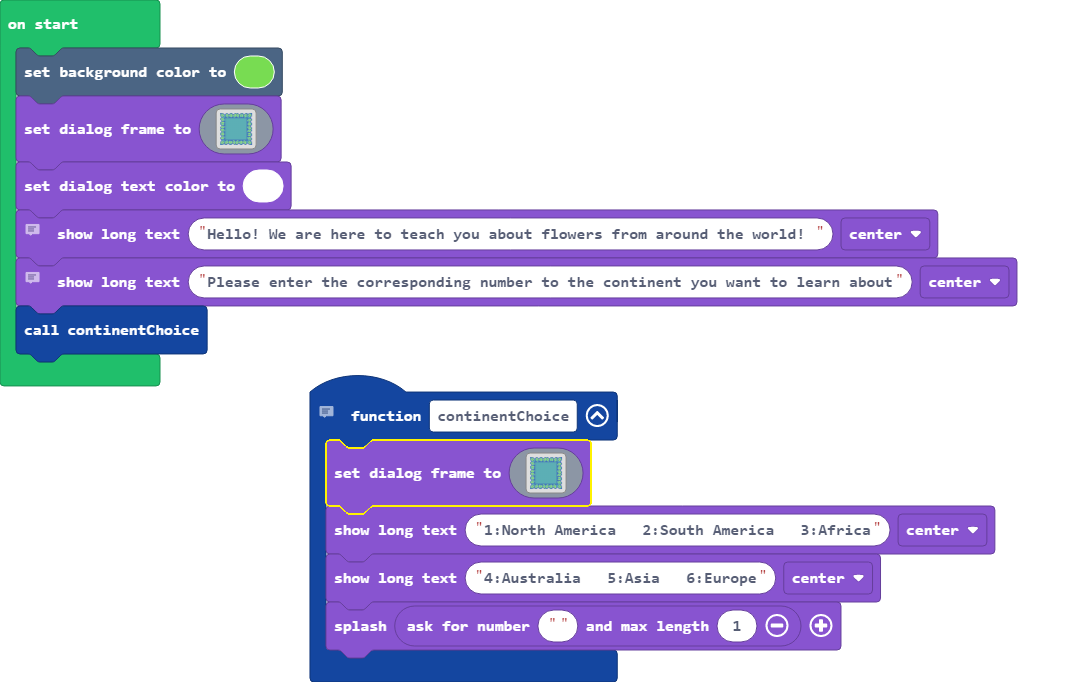
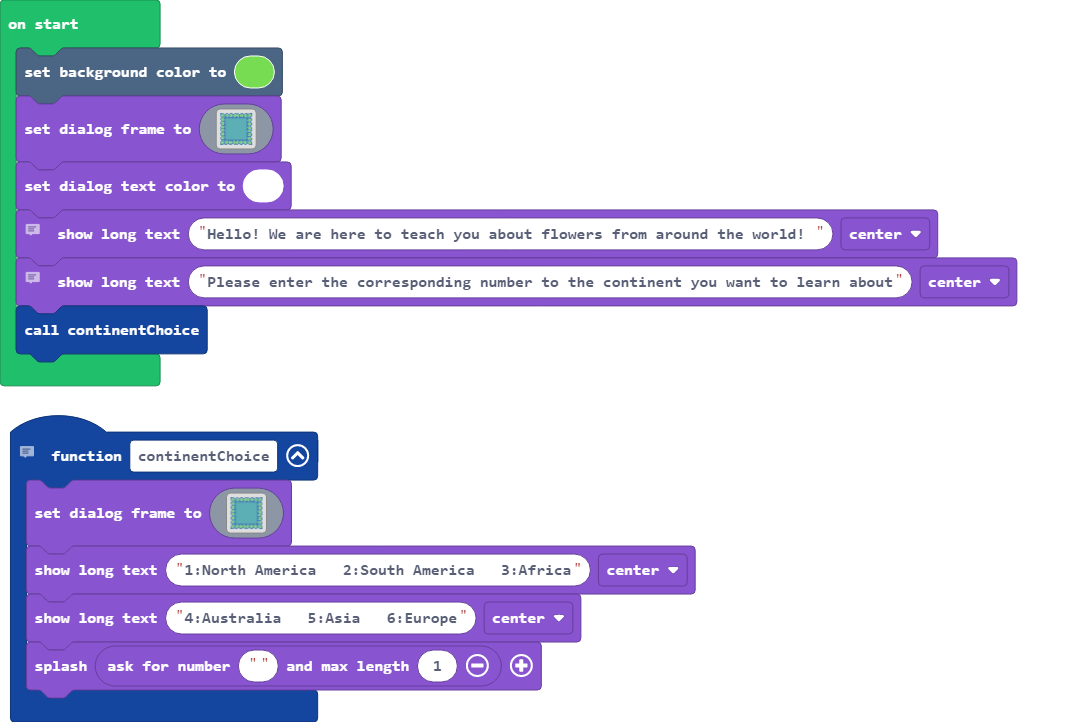
Update main.blocks, main.ts

diff --git a/main.ts b/main.ts
@@ -53,9 +53,6 @@ function continentChoice () {
     game.showLongText("1:North America   2:South America   3:Africa", DialogLayout.Center)
     game.showLongText("4:Australia   5:Asia   6:Europe", DialogLayout.Center)
     game.splash(game.askForNumber("", 1))
-    if (0 == 1) {
-    	
-    }
 }
 scene.setBackgroundColor(7)
 game.setDialogFrame(img`
